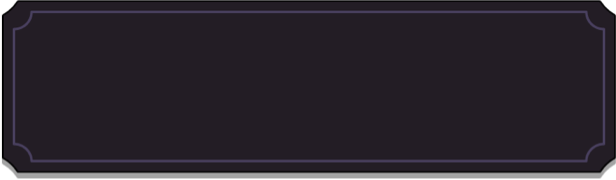
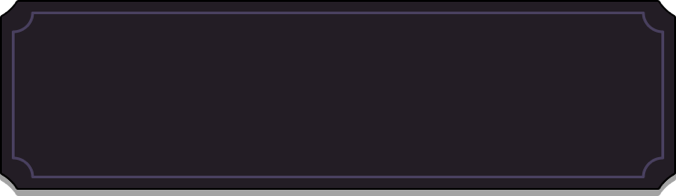
MapNavButton

Changed region(s): [[0.0, 0.0, 1.0, 1.0]]

diff --git a/src/components/button/mapNavButton.tsx b/src/components/button/mapNavButton.tsx
@@ -1,0 +1,64 @@
+import React, {Component} from 'react';
+import {ViewStyle, ImageBackground} from 'react-native';
+
+import {
+  widthPercentageToDP as wp,
+  heightPercentageToDP as hp,
+} from 'react-native-responsive-screen';
+
+// @ts-ignore
+import ImageService from '../../services/imageService';
+import CircleButton from './circleButton';
+
+type Props = {
+  hide?: boolean;
+  onPress?: Function;
+  buttonImage: string;
+  style?: ViewStyle;
+  right?: boolean;
+};
+
+export default class MapNavButton extends Component<Props> {
+  static defaultProps = {
+    hide: false,
+    onPress: () => {},
+    right: false,
+  };
+
+  constructor(props: Props) {
+    super(props);
+  }
+
+  render() {
+    if (this.props.hide) {
+      return null;
+    }
+
+    const bgWidth = hp('10%');
+    const bgConstant = 0.897058823529412;
+    const bgHeight = bgWidth * bgConstant;
+
+    const defaultStyle = {
+      flex: 1,
+      width: bgWidth,
+      height: bgHeight,
+      justifyContent: 'center',
+      alignItems: 'center',
+    };
+
+    const imageSource = this.props.right
+      ? 'navButtonBackgroundRight'
+      : 'navButtonBackgroundLeft';
+
+    return (
+      <ImageBackground
+        source={ImageService.getImage(imageSource)}
+        style={Object.assign(defaultStyle, this.props.style)}>
+        <CircleButton
+          image={this.props.buttonImage}
+          onPress={this.props.onPress}
+        />
+      </ImageBackground>
+    );
+  }
+}

diff --git a/src/screens/levelMap/levelMap.tsx b/src/screens/levelMap/levelMap.tsx
@@ -1,5 +1,5 @@
 import React, {Component} from 'react';
-import {View, Image, ImageBackground, Text, ViewStyle} from 'react-native';
+import {View, ImageBackground, Text} from 'react-native';
 
 import {getStyles} from './levelMap.style';
 import NoNotchView from '../../components/noNotchView';
@@ -7,6 +7,7 @@ import ImageService from '../../services/imageService';
 import MapLayer from '../../components/map/mapLayer';
 import CircleButton from '../../components/button/circleButton';
 import RectButton from '../../components/button/rectButton';
+import MapNavButton from '../../components/button/mapNavButton';
 
 type State = {
   mapNavigationMode: boolean;
@@ -32,16 +33,17 @@ export default class LevelMap extends Component<State> {
         <View style={this.styles.container}>
           <MapLayer controlsEnabled={this.state.mapNavigationMode} />
 
-          <CircleButton
-            image="backButton"
+          <MapNavButton
+            buttonImage="backButton"
             style={this.styles.leftButtonOverlay}
             hide={this.state.mapNavigationMode}
           />
 
-          <CircleButton
-            image="mapButton"
+          <MapNavButton
+            buttonImage="mapButton"
             style={this.styles.rightButtonOverlay}
             hide={this.state.mapNavigationMode}
+            right
             onPress={() => {
               setTimeout(() => {
                 this.setState({

diff --git a/src/screens/levelMap/levelMap.style.tsx b/src/screens/levelMap/levelMap.style.tsx
@@ -12,7 +12,7 @@ const getStyles: any = () => {
   const navbarHeight = hp('7%');
   const bottomHeight = hp('30%');
 
-  const titleBannerWidth = hp('42%');
+  const titleBannerWidth = isTablet() ? wp('60%') : wp('82%');
   const titleBannerConstant = 0.2922;
   const titleHeight = titleBannerWidth * titleBannerConstant;
   const titleFont = titleHeight * 0.15;
@@ -20,6 +20,7 @@ const getStyles: any = () => {
   const titleMarginBottom = titleHeight * titleMarginBottomConstant;
   const titleMarginSides = titleBannerWidth * 0.05;
   const titleLineHeight = titleHeight * 0.3;
+  const titleMarginTop = hp('1%');
 
   const buttonMargin = hp('1%');
 
@@ -45,7 +46,7 @@ const getStyles: any = () => {
       position: 'absolute',
       top: 0,
       width: titleBannerWidth,
-      marginTop: navbarHeight,
+      marginTop: titleMarginTop,
       height: titleHeight,
     },
     mapTitleContainerImage: {
@@ -67,15 +68,13 @@ const getStyles: any = () => {
     },
     leftButtonOverlay: {
       position: 'absolute',
-      top: 0,
+      top: titleMarginTop + titleHeight + hp('1%'),
       left: 0,
-      margin: buttonMargin,
     },
     rightButtonOverlay: {
       position: 'absolute',
-      top: 0,
+      top: titleMarginTop + titleHeight + hp('1%'),
       right: 0,
-      margin: buttonMargin,
     },
     playButtonOverlay: {
       position: 'absolute',

diff --git a/src/services/imageService.js b/src/services/imageService.js
@@ -1,8 +1,3 @@
-/**
- * @format
- * @flow strict-local
- */
-
 const ImageService = {
   initialized: false,
   images: {},
@@ -21,6 +16,8 @@ const ImageService = {
     marker_7: require('../images/marker_7.png'),
     marker_8: require('../images/marker_8.png'),
     marker_9: require('../images/marker_9.png'),
+    navButtonBackgroundLeft: require('../images/navButtonBackgroundLeft.png'),
+    navButtonBackgroundRight: require('../images/navButtonBackgroundRight.png'),
   }),
   init: () => {
     ImageService.images = ImageService.requireImages();
